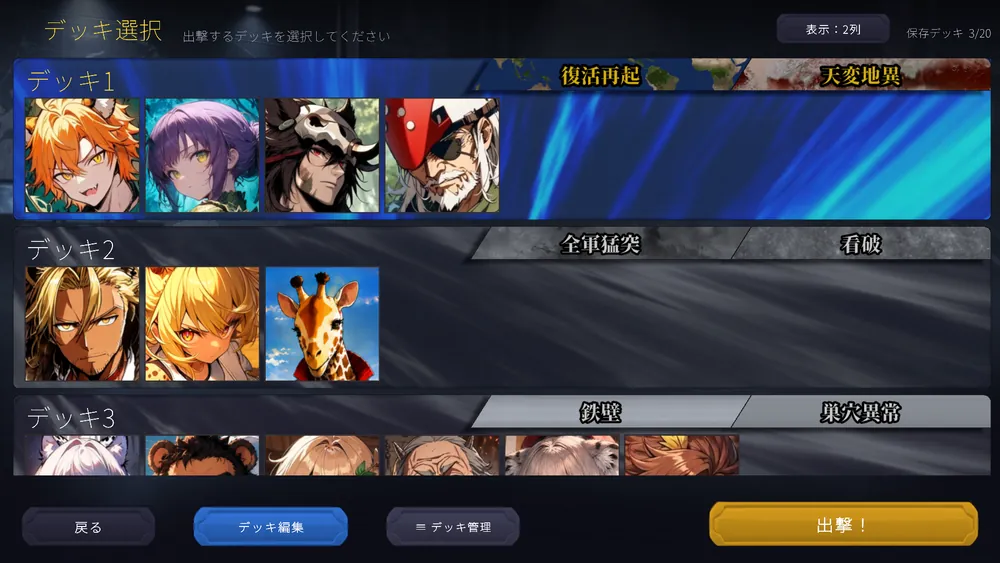
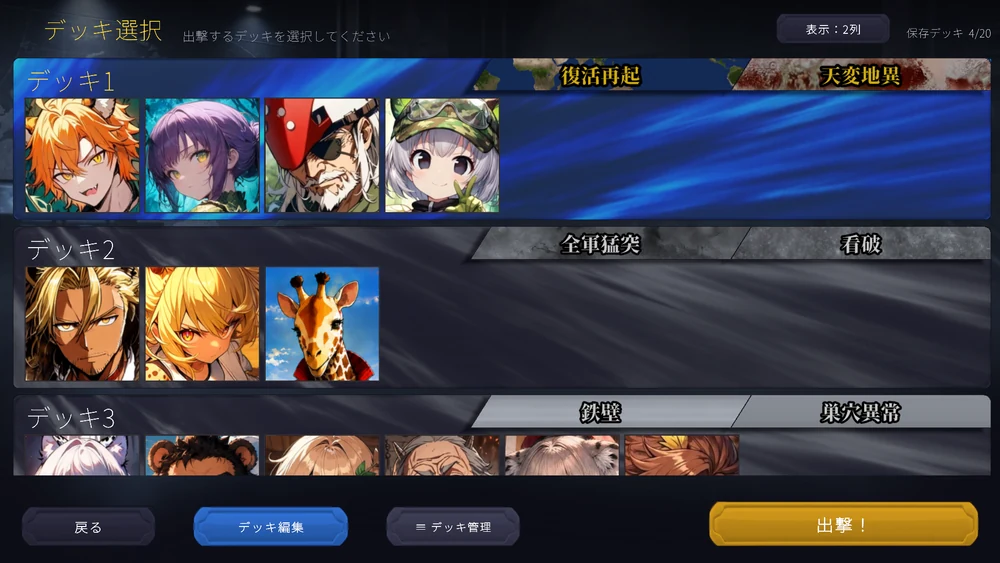
バトル: 流れ3「マッチング」のCOMING SOONをVS画面のスクショに差し替え（デッキ選択の絵も更新）
- assets/guide/battle-flow2.webp を新規追加（1000×563・flow1／flow1b と同じ規格）
- assets/guide/battle-flow1b.webp（デッキ選択）を最新の画面に更新

Changed region(s): [[0.0, 0.0906, 0.992, 0.3925]]

diff --git a/game-battle.html b/game-battle.html
@@ -91,7 +91,7 @@
                         <h3>マッチング</h3>
                         <p>対戦する相手が決まる。</p>
                     </div>
-                    <div class="flow-figure">COMING SOON</div>
+                    <div class="flow-figure"><img src="assets/guide/battle-flow2.webp" alt="対戦開始前の画面。左右に自分と相手のプレイヤー名と代表キャラの絵が並び、下に両者の編成キャラが表示される" width="1000" height="563" loading="lazy"></div>
                 </div>
                 <div class="flow-step" data-step="4">
                     <div class="flow-body">
